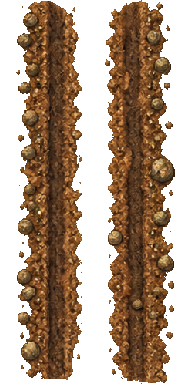
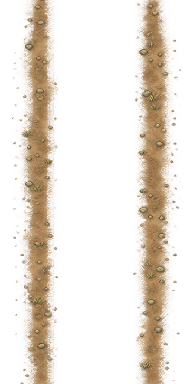
feat(assets): snack bar furnishings and subtle cart tracks

diff --git a/assets/CREDITS.md b/assets/CREDITS.md
@@ -43,6 +43,11 @@ Six PNG corrigés avec ChatGPT / image_gen : `assets/hd2d/sky/sky_dusk.png`, `as
 91 PNG générés avec ChatGPT / image_gen le 9 octobre 2026, cahier n° 3, lot I. Références : les planches officielles de SukaSuka fournies par l’utilisateur (21 ZIP, 162 pages ; intérieurs p99–111), les descriptions paraphrasées des romans du cahier, et les assets HD-2D déjà livrés. Sources et aperçus conservés hors du dépôt. Mise au format au plus proche voisin, transparence découpée, raccords corrigés avec image_gen ; aucune réduction de palette ni compression avec perte.
 | Lot J priorité 1 : `tiat_life`, `collon_life`, `pannibal_life`, `lakhesh_life`, `almita_life`, `chtholly_home`, `ithea_home`, `nephren_home`, `willem_home`, `willem_cook`, `willem_coat`, `nygglatho_life`, `nygglatho_tea`, `fairy_01`, `fairy_02`, `fairy_03`, `fairy_04`, `fairy_05`, `fairy_06`, `tiat_pajamas`, `collon_pajamas`, `pannibal_pajamas`, `lakhesh_pajamas` (profil, face, dos, PNG et JSON ; 23 variantes, 69 planches) | ChatGPT/Codex (`image_gen`), 9 octobre 2026, cahier fourni `ASSETS_HD2D_SUKASUKA.md` ; pages officielles des 21 ZIP et planches existantes utilisées comme références, variantes domestiques et six fées secondaires originales ; couleurs visibles natives conservées sans réduction de palette ; masques/cadrage au plus proche voisin, repos des `_life` recopiés exactement. Provenance par planche dans `assets/characters/CREDITS.md` | — (images générées) | Images pour le projet ; personnages/univers inspirés de *SukaSuka*, droits des ayants droit réservés | SukaSuka J P1 |
 
+## Île 68 — ornières et snack-bar (cahier n° 6, A.3 et A.6)
+
+Neuf PNG générés avec OpenAI Image Generation : traces et leur fin estompée, sol et mur de pierre, comptoir, étagère, tabourets, table et repas. Références : matériaux et mobilier HD-2D du projet. Écartement des roues de 115 px, recalage géométrique du plateau au plus proche voisin et assemblage local des huit premières lignes du raccord. Sources et originaux conservés hors dépôt ; couleurs générées conservées. Univers inspiré de SukaSuka, droits des ayants droit réservés.
+
+
 ## Cahier n° 3 — Lot I, priorité 2 : maison, entretien, lecture et chambres
 
 32 images originales générées avec ChatGPT le 2026-10-10 selon `docs/ASSETS_HD2D_SUKASUKA.md`, lot I, priorité 2. Les dessins officiels des ZIP p082, p084 et p105 servent de référence pour les accessoires, la vaisselle et les matériaux ; les illustrations ajoutées sont des adaptations, pas des scans. Les autres compositions suivent les consignes du cahier et les PNG du projet `bed_iron` et `desk_chtholly`. Les variantes anciennes restent conservées. Sources générées, rectangles de découpe et aperçus conservés hors dépôt. Découpe mesurée, alpha binaire et réduction uniforme au plus proche voisin, sans remappage des couleurs RGB. PNG isolés : aucun placement, animation ou carte jouable ajouté.
